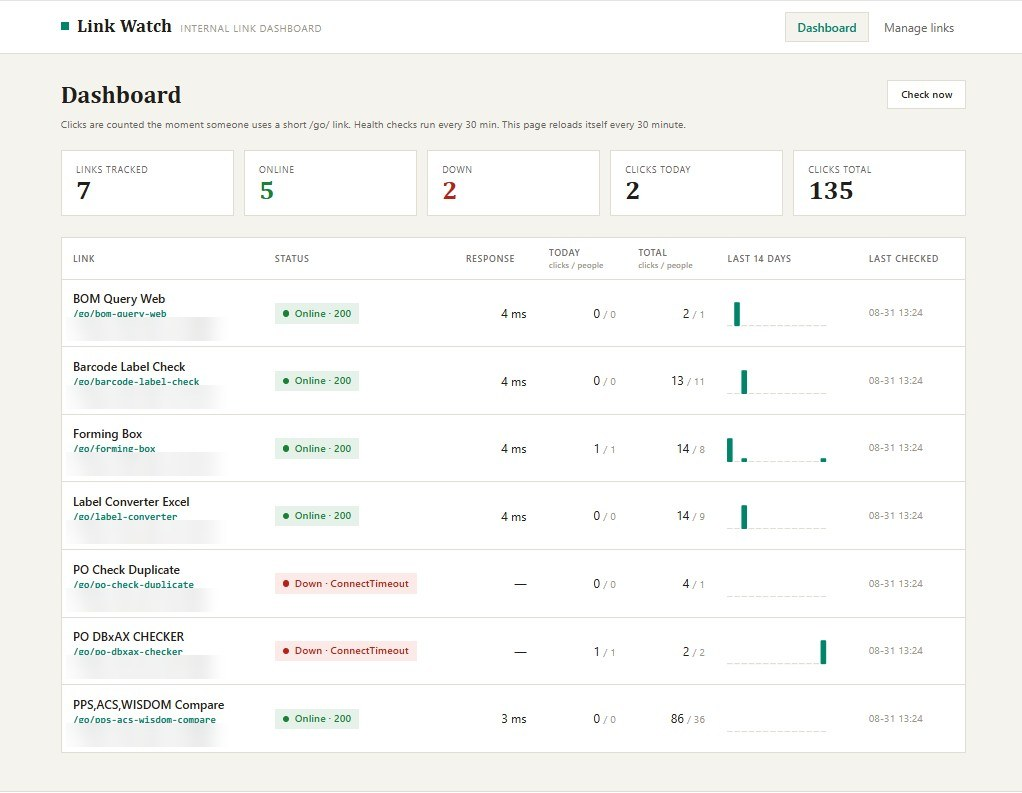
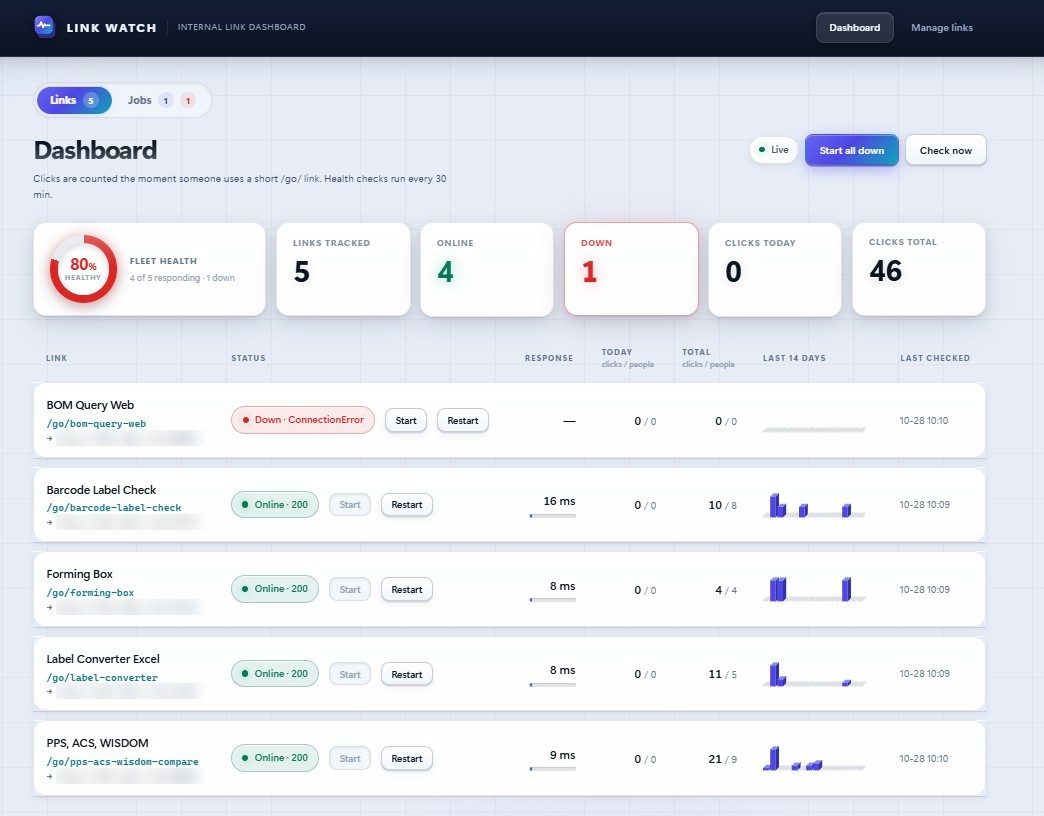
Refresh README screenshots for the redesigned UI, IPs blurred

Changed region(s): [[0.0, 0.0, 1.0, 1.0], [0.5157, 0.6053, 0.5763, 0.6356], [0.6067, 0.6053, 0.637, 0.6356]]

diff --git a/README.md b/README.md
@@ -43,7 +43,7 @@ User instantly lands on:   http://SERVERNAME:5000/   (your real app)
 Your apps need **no changes at all** — the dashboard never touches them, it just owns the address
 people click.
 
-![The dashboard: 7 links tracked, 5 online, 2 down, with clicks and response times](docs/images/link-watch-dashboard.jpg)
+![The dashboard: 5 links tracked, 4 online, 1 down, with clicks, response times and Start/Restart buttons](docs/images/link-watch-dashboard.jpg)
 
 <sub>Seven internal tools tracked — clicks today and all-time, how many different people, response
 time, and a 14-day bar chart per link. The destination addresses are blurred; the `/go/` short
